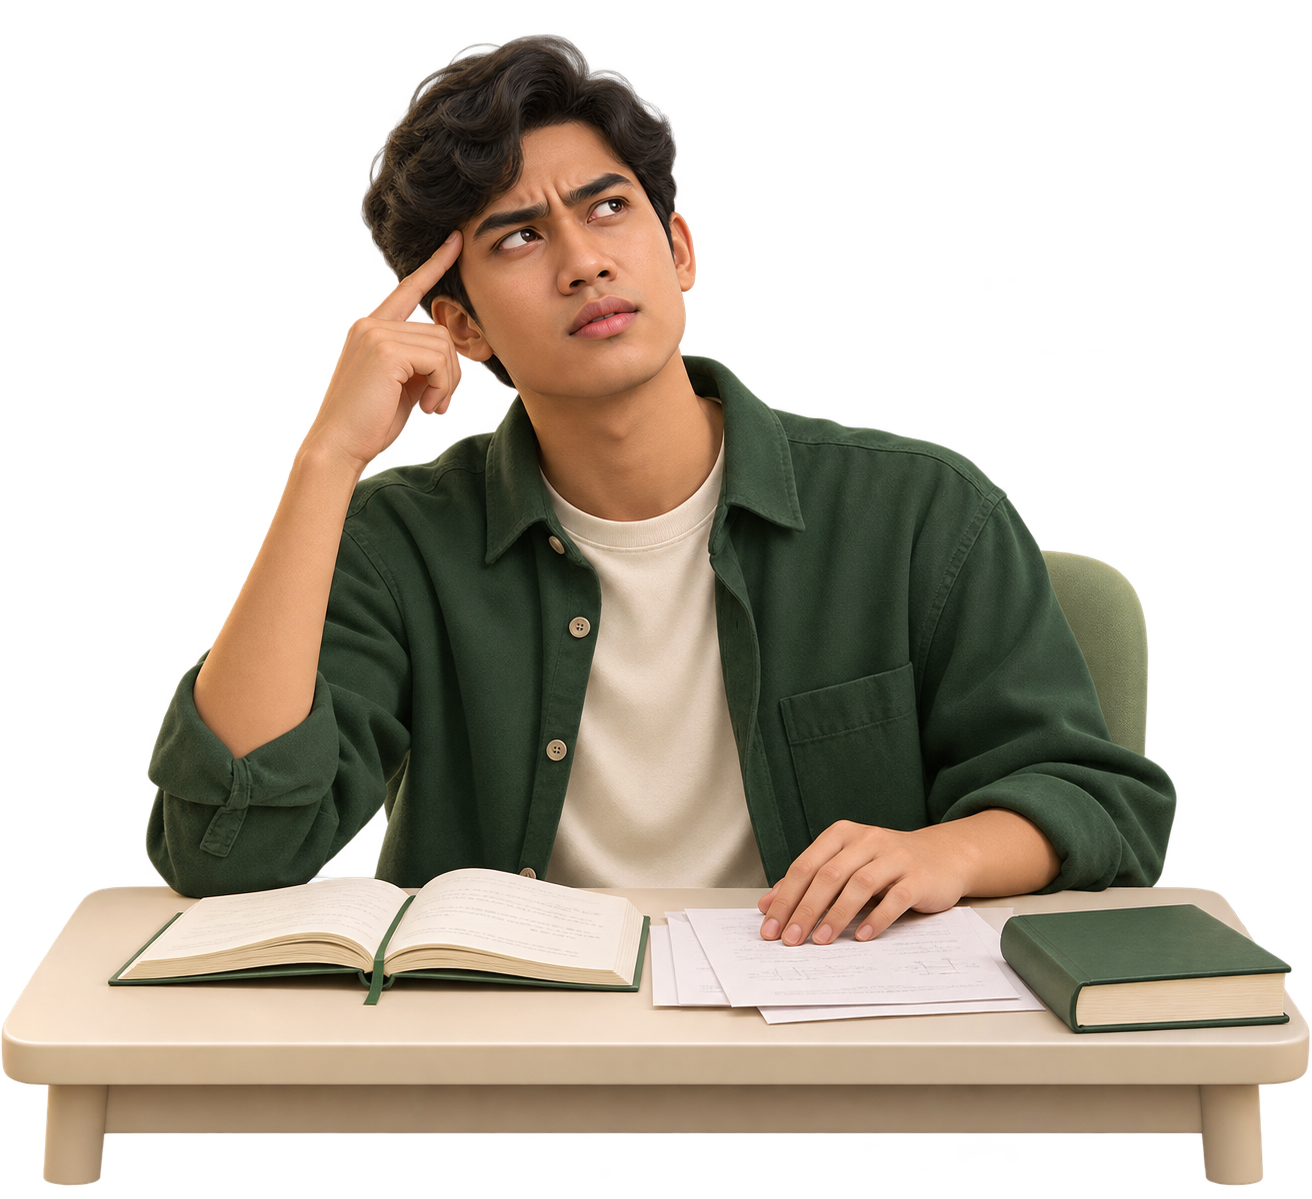
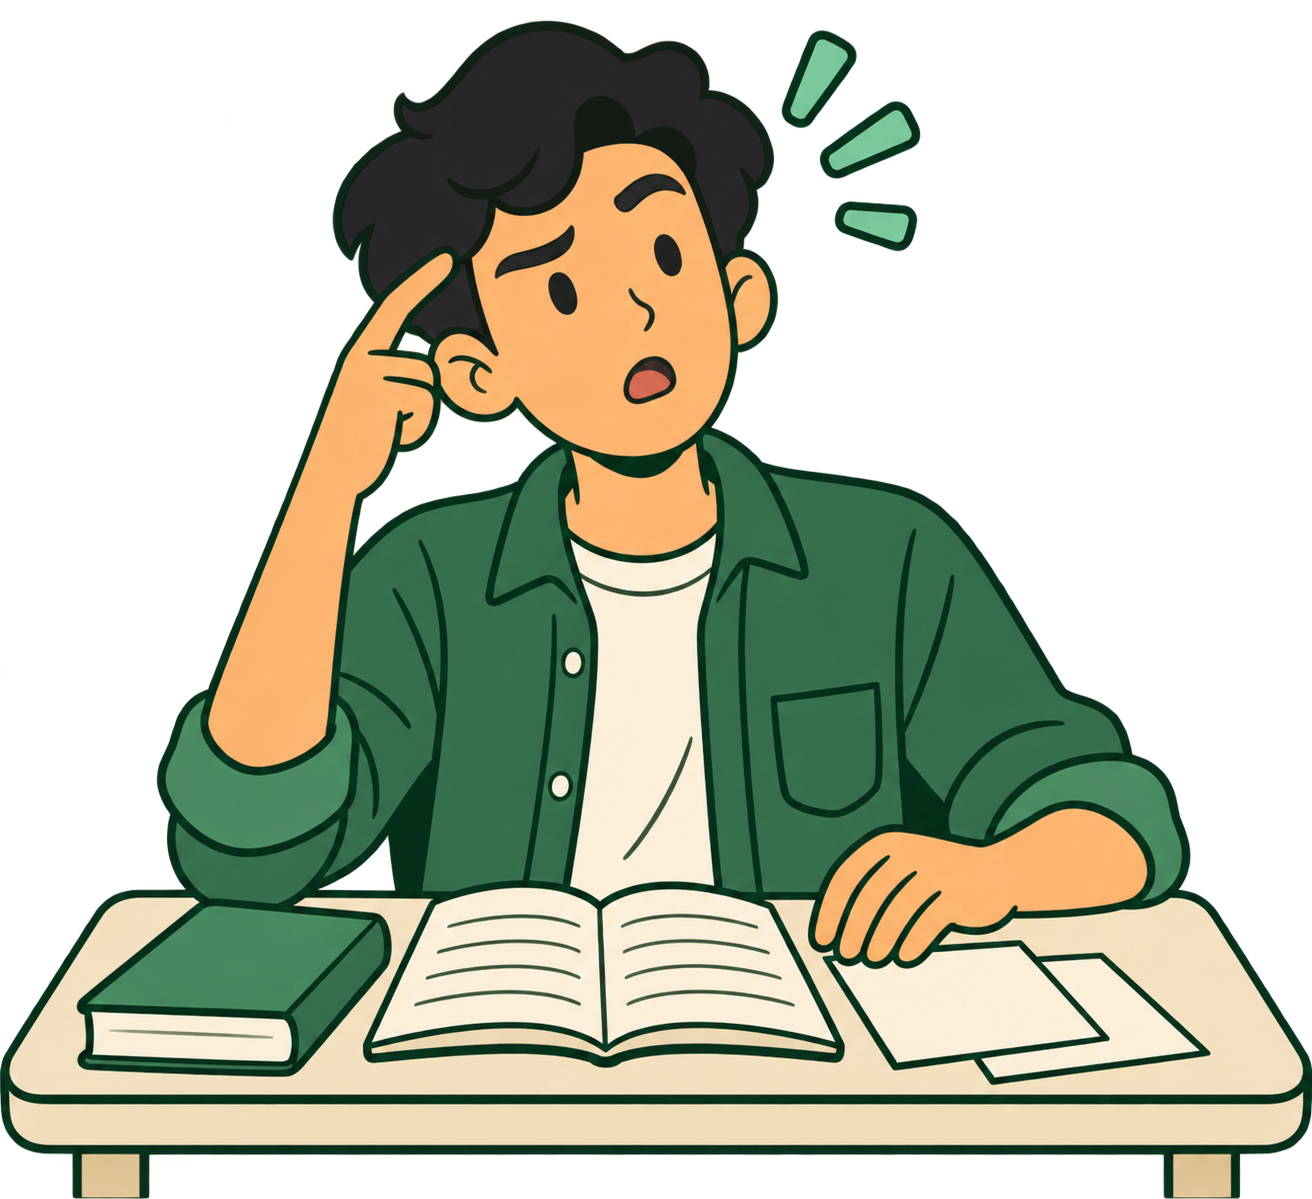
Replace rejected realistic promo figures with 2D cartoon characters

diff --git a/design/promos/2026-11-12/README.md b/design/promos/2026-11-12/README.md
@@ -1,5 +1,23 @@
 # Cuplikan promo 15 detik — 12 November 2026
 
+## Revisi kartun 2D sesuai klarifikasi pengguna
+
+Kandidat semirealistis di bawah ditolak pengguna sebelum disampaikan sebagai
+hasil akhir. Pengguna menginginkan karakter kartun. Ketiga PNG pada folder
+characters sekarang adalah kartun2D hijau-krem dengan identitas konsisten,
+menggantikan rupa lama. Prompt terpakai tercatat di characters/prompts.json.
+
+Hasil terbaru D:/Download/Zikra-App-main/Zikra-Promo-52s-Kartun-2D-Putri.mp4.
+Susunan characters-edit.json dipertahankan dan render dilakukan melalui
+proses baru agar cache aset lama tidak terpakai. Suara/naskah dan durasi52detik
+cocok dengan versi Putri yang dipilih pengguna.1560frame+audio decode lulus;
+alpha, ukuran serta posisi lima vignette diperiksa; pembuka/paham/Study
+ditinjau. [Bukti terbaru](checks-cartoon.json).
+Gerak ilustrasi berupa masuk/fade/pergantian pose. Penerimaan visual oleh
+pengguna dan hak komersial suara tetap belum dipenuhi. Video tetap lokal;
+runtime dan gerbang aplikasi tidak diubah.
+
+
 ## Karakter pendukung cerita
 
 Hasil lokal D:/Download/Zikra-App-main/Zikra-Promo-52s-Karakter-Putri.mp4.

diff --git a/IMPLEMENTATION_PLAN.md b/IMPLEMENTATION_PLAN.md
@@ -1,5 +1,19 @@
 # Rencana implementasi Zikra menuju rilis publik
 
+## Koreksi karakter promo menjadi kartun 2D - 12 November 2026
+
+Pengguna menolak rupa semirealistis dan memperjelas maksudnya karakter kartun.
+Tiga PNG diganti kartun2D konsisten melalui built-in ImageGen, memakai path
+aset yang sama; kandidat lama adalah riwayat ditolak, bukan desain diterima.
+Video52detik diekspor ulang melalui proses baru, suara/naskah stream-byte-sama.
+1560frame+audio decode lulus, alpha/ukuran/posisi dan visual pembuka/Study/paham
+ditinjau. Sumber/prompt terbaru di characters/README.md dan prompts.json,
+bukti di design/promos/2026-11-12/checks-cartoon.json. Gerak masuk/pergantian
+pose, belum animasi anggota tubuh. Hasil lokal menunggu penilaian pengguna;
+hak suara komersial/publikasi tetap belum ditutup. HP/emulator/app runtime/
+WIP/stash/arsip/env/master terpelihara. Audit/commit/push checkpoint.
+
+
 ## Promo karakter - 12 November 2026
 
 Pengguna menilai video polos dan meminta karakter sesuai narasi, misalnya

diff --git a/SESSION_HANDOFF.md b/SESSION_HANDOFF.md
@@ -1,5 +1,19 @@
 # Handoff aktif Zikra — 11 November 2026 (WIB)
 
+## Koreksi karakter promo menjadi kartun 2D - 12 November 2026
+
+Pengguna menolak rupa semirealistis dan memperjelas maksudnya karakter kartun.
+Tiga PNG diganti kartun2D konsisten melalui built-in ImageGen, memakai path
+aset yang sama; kandidat lama adalah riwayat ditolak, bukan desain diterima.
+Video52detik diekspor ulang melalui proses baru, suara/naskah stream-byte-sama.
+1560frame+audio decode lulus, alpha/ukuran/posisi dan visual pembuka/Study/paham
+ditinjau. Sumber/prompt terbaru di characters/README.md dan prompts.json,
+bukti di design/promos/2026-11-12/checks-cartoon.json. Gerak masuk/pergantian
+pose, belum animasi anggota tubuh. Hasil lokal menunggu penilaian pengguna;
+hak suara komersial/publikasi tetap belum ditutup. HP/emulator/app runtime/
+WIP/stash/arsip/env/master terpelihara. Audit/commit/push checkpoint.
+
+
 ## Promo karakter - 12 November 2026
 
 Pengguna menilai video polos dan meminta karakter sesuai narasi, misalnya

diff --git a/RELEASE_SCOPE.md b/RELEASE_SCOPE.md
@@ -1,5 +1,19 @@
 # A02 — Cakupan penyelesaian Zikra
 
+## Koreksi karakter promo menjadi kartun 2D - 12 November 2026
+
+Pengguna menolak rupa semirealistis dan memperjelas maksudnya karakter kartun.
+Tiga PNG diganti kartun2D konsisten melalui built-in ImageGen, memakai path
+aset yang sama; kandidat lama adalah riwayat ditolak, bukan desain diterima.
+Video52detik diekspor ulang melalui proses baru, suara/naskah stream-byte-sama.
+1560frame+audio decode lulus, alpha/ukuran/posisi dan visual pembuka/Study/paham
+ditinjau. Sumber/prompt terbaru di characters/README.md dan prompts.json,
+bukti di design/promos/2026-11-12/checks-cartoon.json. Gerak masuk/pergantian
+pose, belum animasi anggota tubuh. Hasil lokal menunggu penilaian pengguna;
+hak suara komersial/publikasi tetap belum ditutup. HP/emulator/app runtime/
+WIP/stash/arsip/env/master terpelihara. Audit/commit/push checkpoint.
+
+
 ## Promo karakter - 12 November 2026
 
 Pengguna menilai video polos dan meminta karakter sesuai narasi, misalnya

diff --git a/AGENTS.md b/AGENTS.md
@@ -1,5 +1,19 @@
 # Workflow proyek Zikra
 
+## Koreksi karakter promo menjadi kartun 2D - 12 November 2026
+
+Pengguna menolak rupa semirealistis dan memperjelas maksudnya karakter kartun.
+Tiga PNG diganti kartun2D konsisten melalui built-in ImageGen, memakai path
+aset yang sama; kandidat lama adalah riwayat ditolak, bukan desain diterima.
+Video52detik diekspor ulang melalui proses baru, suara/naskah stream-byte-sama.
+1560frame+audio decode lulus, alpha/ukuran/posisi dan visual pembuka/Study/paham
+ditinjau. Sumber/prompt terbaru di characters/README.md dan prompts.json,
+bukti di design/promos/2026-11-12/checks-cartoon.json. Gerak masuk/pergantian
+pose, belum animasi anggota tubuh. Hasil lokal menunggu penilaian pengguna;
+hak suara komersial/publikasi tetap belum ditutup. HP/emulator/app runtime/
+WIP/stash/arsip/env/master terpelihara. Audit/commit/push checkpoint.
+
+
 ## Promo karakter - 12 November 2026
 
 Pengguna menilai video polos dan meminta karakter sesuai narasi, misalnya

diff --git a/design/promos/2026-11-12/characters/README.md b/design/promos/2026-11-12/characters/README.md
@@ -1,7 +1,8 @@
 # Karakter promo Zikra
 
-Tiga ilustrasi karakter mahasiswa laki-laki semirealistis dibuat memakai
-built-in ImageGen. Warna hijau-krem dipilih untuk menyatu dengan materi promo.
+Tiga ilustrasi karakter mahasiswa laki-laki kartun 2D dibuat memakai
+built-in ImageGen. Pengguna mengoreksi kandidat semirealistis dan meminta
+kartun. Warna hijau-krem dipilih untuk menyatu dengan materi promo.
 
 - student-confused.png menunjukkan kebingungan saat melihat materi.
 - student-understood.png menunjukkan membaca jawaban melalui HP.
